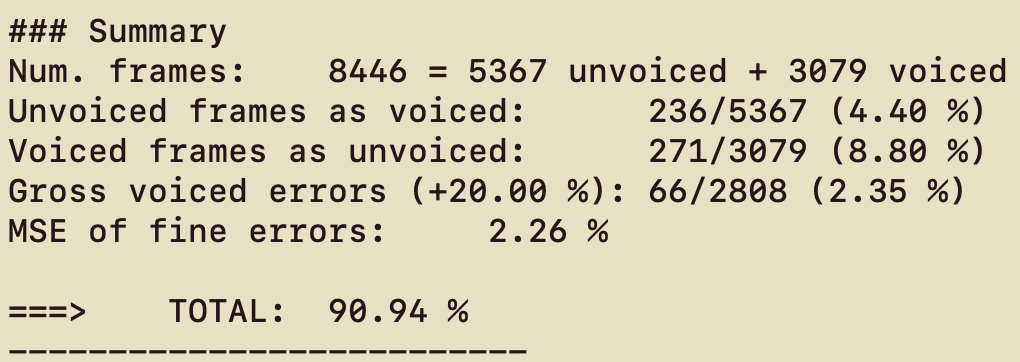
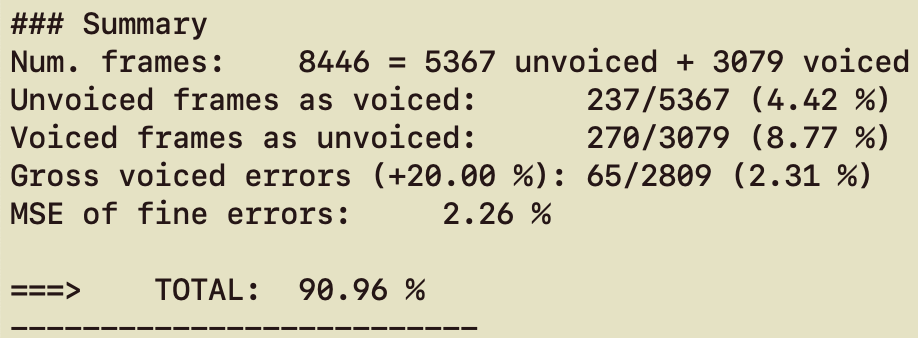
24 abril 02

diff --git a/generacion_graficos.py b/generacion_graficos.py
@@ -1,6 +1,7 @@
 import numpy as np
 import soundfile as sf
 import matplotlib.pyplot as plt
+import scipy.signal as sig
 arxiu='/Users/sergi24sanchez/PAV/P3/pitch_db/train/rl001.wav'
 x,fm=sf.read(arxiu)
 
@@ -12,18 +13,21 @@ for i in range(0,len(x)):
 #Autocorrelation
 autocorrelation=np.correlate(x,x,"same")
 m = np.arange(len(autocorrelation))
+peaks = sig.find_peaks(autocorrelation)
+[a1,a2]=np.split(autocorrelation,2)
 
+#Plot generation
 plt.subplot(2,1,1)
 plt.plot(samples,x,lineWidth=0.5)
 plt.title('30 ms of voiced frames')
 plt.grid(True)
 plt.xlabel('Time[s]')
 plt.ylabel('Waveform')
-plt.xlim(0.096,0.126)
+plt.xlim(0.09,0.12)
 plt.subplot(2,1,2)
-plt.plot(autocorrelation,lineWidth=0.4)
+plt.plot(a2,lineWidth=0.5)
 plt.xlabel('Samples')
 plt.ylabel('Autocorrelation')
-plt.xlim(len(autocorrelation)/2-500,len(autocorrelation)/2+500)
+plt.xlim(0,200)
 plt.grid(True)
 plt.show()

diff --git a/src/get_pitch/get_pitch.cpp b/src/get_pitch/get_pitch.cpp
@@ -86,6 +86,7 @@ int main(int argc, const char *argv[]) {
     else x[i] = 0;
   }
 #endif
+printf("%f",max_value);
 
 //Center-Clipping 2
 #if 0
@@ -98,9 +99,9 @@ int main(int argc, const char *argv[]) {
 #endif
 
 //Low-Pass Filter
-#if 1
+#if 0
   // Definimos FFTReal
-   ffft::FFTReal <float> fft_object1 (1024); //Creamos el objeto de la clase FFTReal (dónde estan las funciones)
+   ffft::FFTReal <float> fft_object1 (8192); //Creamos el objeto de la clase FFTReal (dónde estan las funciones)
 
    //Filtrado Paso-Bajo en frecuencia
  // ==================================================================================================
@@ -169,7 +170,8 @@ int main(int argc, const char *argv[]) {
   /// or time-warping may be used.
   ///
 #if 0
-
+  unsigned int median_win = 3;
+  
 #endif
 
   // Write f0 contour into the output file

diff --git a/grafico_pitch.py b/grafico_pitch.py
@@ -1,0 +1,23 @@
+import numpy as np
+import matplotlib.pyplot as plt
+arxiu1='rl001_wavesurfer.txt'
+arxiu2='/Users/sergi24sanchez/PAV/P3/pitch_db/train/rl001.f0' 
+
+wavesurfer = np.loadtxt(arxiu1,skiprows=0)
+estimacion = np.loadtxt(arxiu2,skiprows=0)
+
+dm = 0.015
+#Time vector
+samples = []
+for i in range(0,len(estimacion)):
+    samples.append(i*dm)
+
+
+plt.plot(samples,estimacion,'g',lineWidth=1,label='Pitch detector')
+plt.plot(samples,wavesurfer,'r',lineWidth=1.5,label='Wavesurfer pitch detector')
+plt.title('Estimacio de Pitch')
+plt.xlabel('Time[s]')
+plt.ylabel('Frequency[Hz]')
+plt.xlim(0,1.24)
+plt.legend(loc='upper right')
+plt.show()

diff --git a/README.md b/README.md
@@ -31,12 +31,52 @@ Ejercicios básicos
      unos 30 ms de un fonema sonoro y su periodo de pitch; y, en otro *subplot*, se vea con claridad la
 	 autocorrelación de la señal y la posición del primer máximo secundario.
 
-    <img src="img/Figura1.png" width="800" align="center">
-
-    Como se puede observar, la señal tiene el primer máximo secundario en el valor 143.
+    > Se escoge la 6a trama del fichero 'rl001.wav' para visualizar parte de un fonema sonoro [0.09s,0.012s].
+    >
+    > <img src="img/Figura1.png" width="800" align="center">
+    > 
+    > Estimamos que el periodo de pitch son 0.007 segundos.
+    >
+    > Como se puede observar, la señal tiene el primer máximo secundario aproximadamente en el valor 143. Coincide con inverso del periodo de pitch.
+    > <img src="img/Captura08.png" width="400" align="center">
 
 	 NOTA: es más que probable que tenga que usar Python, Octave/MATLAB u otro programa semejante para
 	 hacerlo. Se valorará la utilización de la librería matplotlib de Python.
+
+    ```c
+    import numpy as np
+    import soundfile as sf
+    import matplotlib.pyplot as plt
+    import scipy.signal as sig
+    arxiu='/Users/sergi24sanchez/PAV/P3/pitch_db/train/rl001.wav'
+    x,fm=sf.read(arxiu)
+
+    #Time vector
+    samples = []
+    for i in range(0,len(x)):
+    samples.append(i/fm)
+
+    #Autocorrelation
+    autocorrelation=np.correlate(x,x,"same")
+    m = np.arange(len(autocorrelation))
+    peaks = sig.find_peaks(autocorrelation)
+    [a1,a2]=np.split(autocorrelation,2)
+
+    #Plot generation
+    plt.subplot(2,1,1)
+    plt.plot(samples,x,lineWidth=0.5)
+    plt.title('30 ms of voiced frames')
+    plt.grid(True)
+    plt.xlabel('Time[s]')
+    plt.ylabel('Waveform')
+    plt.xlim(0.09,0.12) #6a trama
+    plt.subplot(2,1,2)
+    plt.plot(a2,lineWidth=0.5)
+    plt.xlabel('Samples')
+    plt.ylabel('Autocorrelation')
+    plt.xlim(0,200)
+    plt.grid(True)  
+    ```
 
    * Determine el mejor candidato para el periodo de pitch localizando el primer máximo secundario de la
      autocorrelación. Inserte a continuación el código correspondiente.
@@ -68,6 +108,8 @@ Ejercicios básicos
     float pot = 10 * log10(r[0]);
   }
   ```
+  > Se pretende encontrar el máximo de la autocorrelacion entre el rango de valores [npitch_min,npitch_max].
+  > Se implementa usando iteradores, donde el iterador iRMax se queda con el índice del valor máximo dentro del rango especificado.
 
    * Implemente la regla de decisión sonoro o sordo e inserte el código correspondiente.
 
@@ -80,7 +122,9 @@ Ejercicios básicos
       return false;
   }
   ```
-
+  > La regla de decisión de una trama sorda, se decide con 3 umbrales correspondientes a la energia de la trama (pot_value), la autocorrelacion en 1 normalizada (r1_value) y autocorrelación en el máximo encontrado normalizada (rmax_value).
+  > Se decide que una trama es sorda cuando se cumple cualquiera de estos umbrales.
+  > Lo hemos decidido de esta forma ya que hemos observado lo siguiente: cuando la potencia baja de un cierto umbral es un buen indicador de que esa trama es silencio; cuando la autocorrelacion en 1 es muy diferente de la energía de la trama nos ayuda a detectar sonidos sordos; y cuando la rmax normalizada está por debajo de un cierto umbral es que no está marcada claramente la periocidad predominante.
 
 - Una vez completados los puntos anteriores, dispondrá de una primera versión del detector de pitch. El 
   resto del trabajo consiste, básicamente, en obtener las mejores prestaciones posibles con él.
@@ -93,14 +137,14 @@ Ejercicios básicos
 		(r[0]), la autocorrelación normalizada de uno (r1norm = r[1] / r[0]) y el valor de la
 		autocorrelación en su máximo secundario (rmaxnorm = r[lag] / r[0]).
 
-    Se visualiza rmaxnorm (arriba), r1norm (centro) y la potencia de la señal (abajo):
-    <img src="img/Captura04.png" width="640" align="center">
+    > Se visualiza rmaxnorm (arriba), r1norm (centro) y la potencia de la señal (abajo):
+    > <img src="img/Captura04.png" width="640" align="center">
+    >
+    > Visualización de la detección del pitch:
+    > <img src="img/Captura05.png" width="640" align="center">
 
-    Visualización de la detección del pitch:
-    <img src="img/Captura05.png" width="640" align="center">
 
-
-		Puede considerar, también, la conveniencia de usar la tasa de cruces por cero.
+	Puede considerar, también, la conveniencia de usar la tasa de cruces por cero.
 
 	  Recuerde configurar los paneles de datos para que el desplazamiento de ventana sea el adecuado, que
 		en esta práctica es de 15 ms.
@@ -109,20 +153,54 @@ Ejercicios básicos
 	    su resultado con el obtenido por la mejor versión de su propio sistema.  Inserte una gráfica
 		ilustrativa del resultado de ambos detectores.
 
-    Visualización de la detección del pitch de Wavesurfer (arriba) y nuestra implementación (abajo):
-    <img src="img/Captura06.png" width="640" align="center">
+    > Visualización de la detección del pitch de Wavesurfer (arriba) y nuestra implementación (abajo):
+    > <img src="img/Captura06.png" width="640" align="center">
 
   
   * Optimice los parámetros de su sistema de detección de pitch e inserte una tabla con las tasas de error
     y el *score* TOTAL proporcionados por `pitch_evaluate` en la evaluación de la base de datos 
 	`pitch_db/train`..
 
-  Con los parámetros iniciales, nuestro sistema de detección de pitch tiene una puntuación de 90.94%
-  <img src="img/Captura07.png" width="640" align="center">
+  > Los valores de los umbrales que funcionan mejor para la detección de las tramas sordas son:
+  >
+  > Potencia inferior a -49 dB
+  >
+  > Autocorrelacion en 1 normalizada (r1norm) inferior a 0.87
+  >
+  > Autocorrelacion en el primer máximo normalizada inferior (rmaxnorm) a 0.30
+
+  > Con los parámetros iniciales, nuestro sistema de detección de pitch tiene una puntuación de 90.96%
+  > <img src="img/Captura07.png" width="640" align="center">
 
    * Inserte una gráfica en la que se vea con claridad el resultado de su detector de pitch junto al del
      detector de Wavesurfer. Aunque puede usarse Wavesurfer para obtener la representación, se valorará
 	 el uso de alternativas de mayor calidad (particularmente Python).
+   > <img src="img/Figura2.png" width="640" align="center">
+   > A continuación se muestra el código de Python empleado para la representación:
+   > ```c
+   > import numpy as np
+import matplotlib.pyplot as plt
+arxiu1='rl001_wavesurfer.txt'
+arxiu2='/Users/sergi24sanchez/PAV/P3/pitch_db/train/rl001.f0' 
+
+wavesurfer = np.loadtxt(arxiu1,skiprows=0)
+estimacion = np.loadtxt(arxiu2,skiprows=0)
+
+dm = 0.015
+#Time vector
+samples = []
+for i in range(0,len(estimacion)):
+    samples.append(i*dm)
+
+
+plt.plot(samples,estimacion,'g',lineWidth=1,label='Pitch detector')
+plt.plot(samples,wavesurfer,'r',lineWidth=1.5,label='Wavesurfer pitch detector')
+plt.title('Estimacio de Pitch')
+plt.xlabel('Time[s]')
+plt.ylabel('Frequency[Hz]')
+plt.xlim(0,1.24)
+plt.legend(loc='upper right')
+```
    
 
 Ejercicios de ampliación
